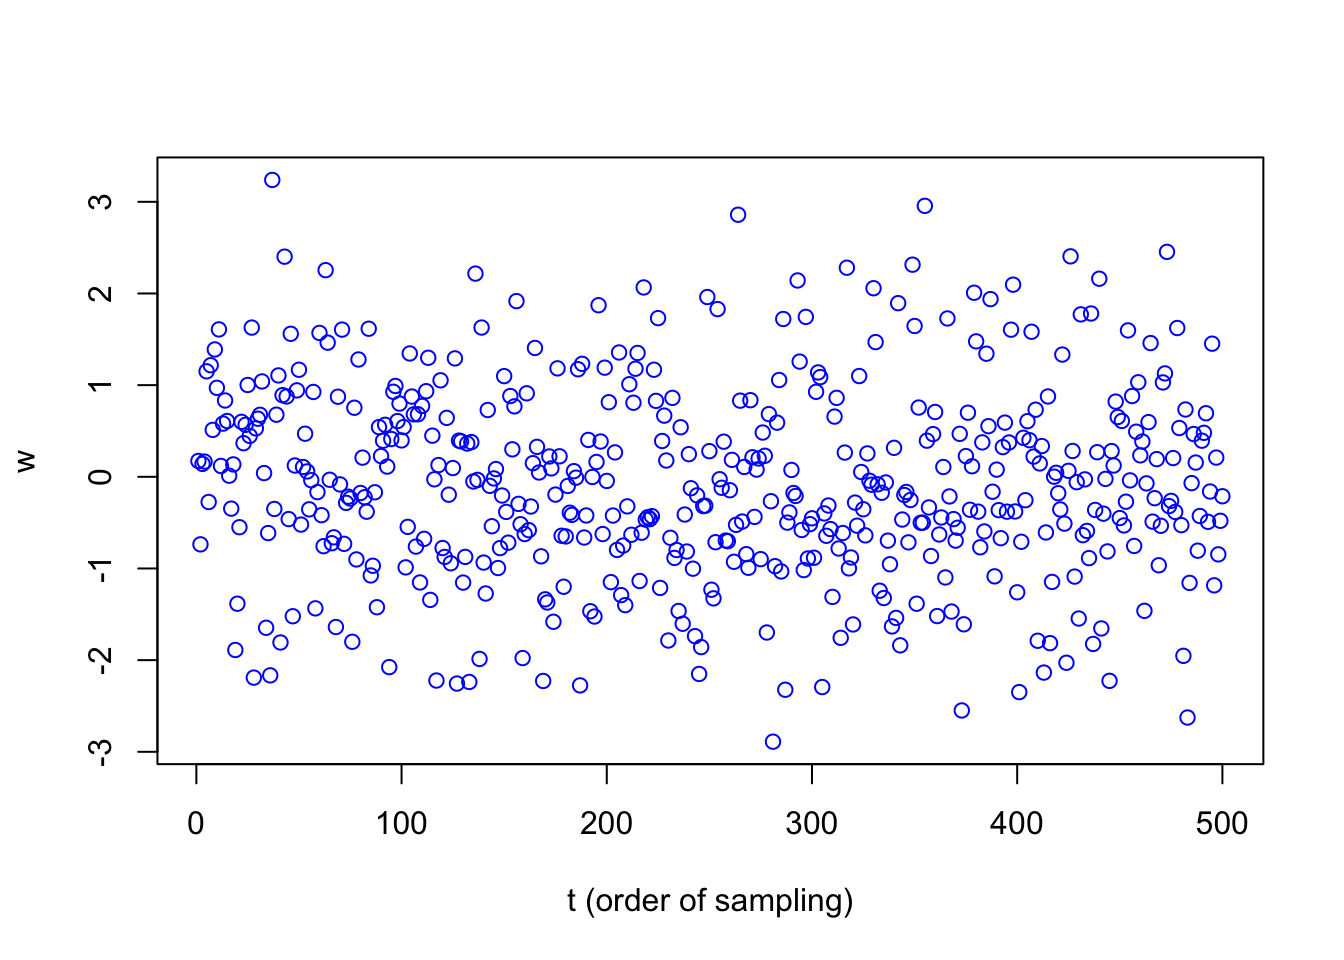
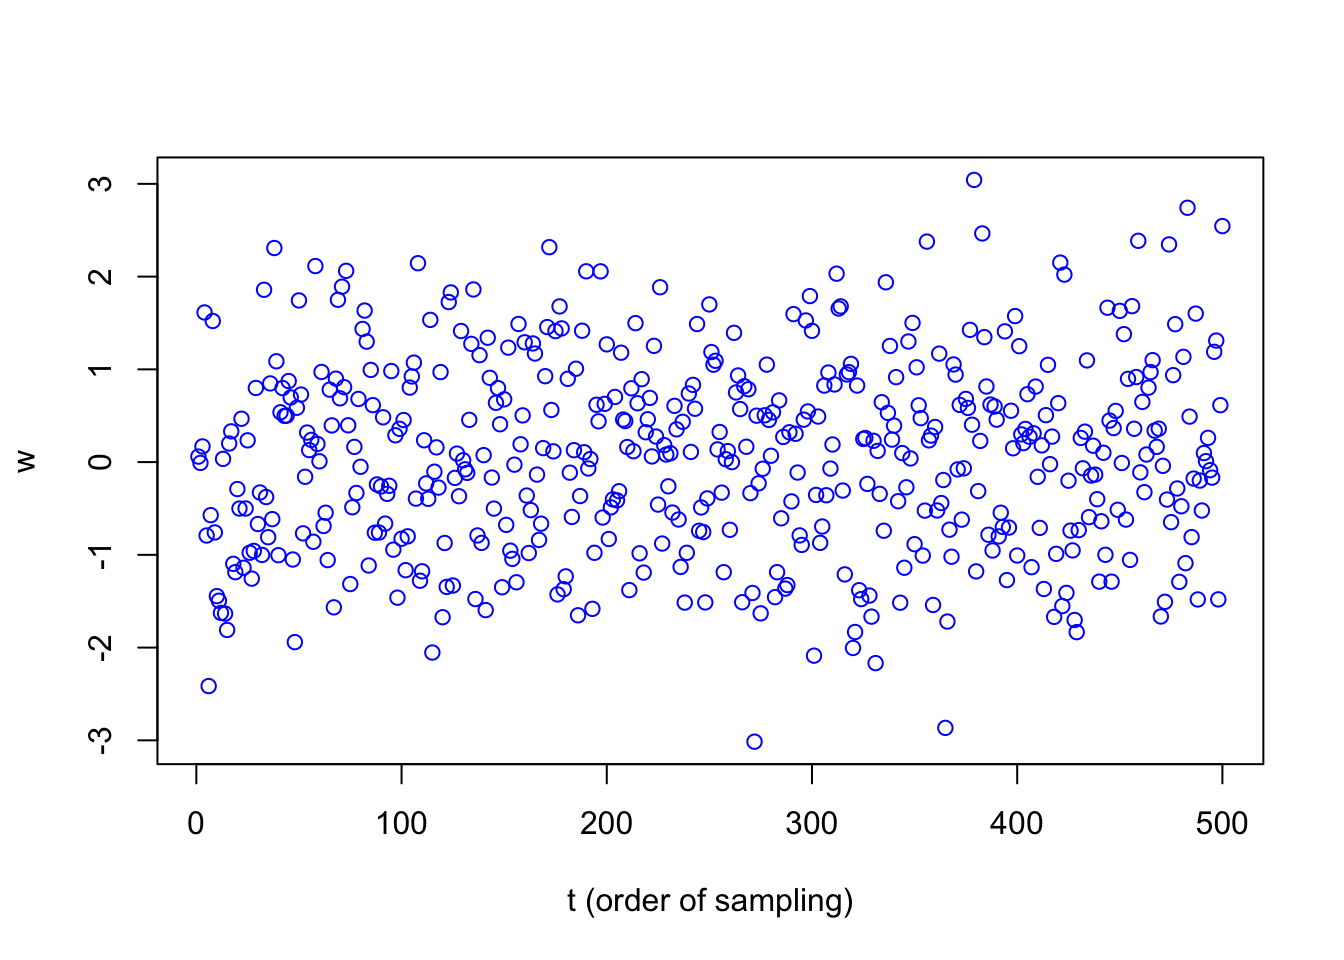
Built site for gh-pages

diff --git a/Assignments/Assignment1.html b/Assignments/Assignment1.html
@@ -277,7 +277,7 @@ window.Quarto = {
 <div class="cell">
 <div class="sourceCode cell-code" id="cb6"><pre class="sourceCode r code-with-copy"><code class="sourceCode r"><span id="cb6-1"><a href="#cb6-1" aria-hidden="true" tabindex="-1"></a><span class="do">## your code here</span></span></code><button title="Copy to Clipboard" class="code-copy-button"><i class="bi"></i></button></pre></div>
 </div></li>
-<li><p>[10 points] Apply a moving average filter with 3 time points using the stats::filter function and save the result in a vector called <code>ww_ma_3</code>. (Similar to the final part of problem 1.1, see <a href="http://localhost:4512/LectureNotes/Lecture2.html#moving-averages-problem-1.1-part-c">here</a> in Lecture Notes).</p>
+<li><p>[10 points] Apply a moving average filter with 3 time points using the stats::filter function and save the result in a vector called <code>ww_ma_3</code>. (Similar to the final part of problem 1.1, see <a href="https://juliaschedler.github.io/Stat416Fall24/LectureNotes/Lecture2.html#moving-averages-problem-1.1-part-c">here</a> in Lecture Notes).</p>
 <div class="cell">
 <div class="sourceCode cell-code" id="cb7"><pre class="sourceCode r code-with-copy"><code class="sourceCode r"><span id="cb7-1"><a href="#cb7-1" aria-hidden="true" tabindex="-1"></a><span class="fu">library</span>(astsa)</span>
 <span id="cb7-2"><a href="#cb7-2" aria-hidden="true" tabindex="-1"></a>ww_ma_3 <span class="ot">&lt;-</span> stats<span class="sc">::</span><span class="fu">filter</span>(<span class="co">#your code here)</span></span></code><button title="Copy to Clipboard" class="code-copy-button"><i class="bi"></i></button></pre></div>

diff --git a/LectureNotes/Lecture2.html b/LectureNotes/Lecture2.html
@@ -354,12 +354,12 @@ window.Quarto = {
 <tr class="odd">
 <td>1</td>
 <td><span class="math inline">\(w_1 \sim N(0, \sigma_w^2)\)</span></td>
-<td>-1.2894493</td>
+<td>-0.4098379</td>
 </tr>
 <tr class="even">
 <td>2</td>
 <td><span class="math inline">\(w_2 \sim N(0, \sigma_w^2)\)</span></td>
-<td>-2.265324</td>
+<td>-0.3149619</td>
 </tr>
 <tr class="odd">
 <td></td>
@@ -369,7 +369,7 @@ window.Quarto = {
 <tr class="even">
 <td>t</td>
 <td><span class="math inline">\(w_t \sim N(0, \sigma^2_w)\)</span></td>
-<td>-0.3271013</td>
+<td>1.0888478</td>
 </tr>
 <tr class="odd">
 <td><span class="math inline">\(\vdots\)</span></td>
@@ -379,7 +379,7 @@ window.Quarto = {
 <tr class="even">
 <td>n</td>
 <td><span class="math inline">\(w_n \sim N(0, \sigma_w^2)\)</span></td>
-<td>-0.1920906</td>
+<td>-0.3103041</td>
 </tr>
 </tbody>
 </table>
